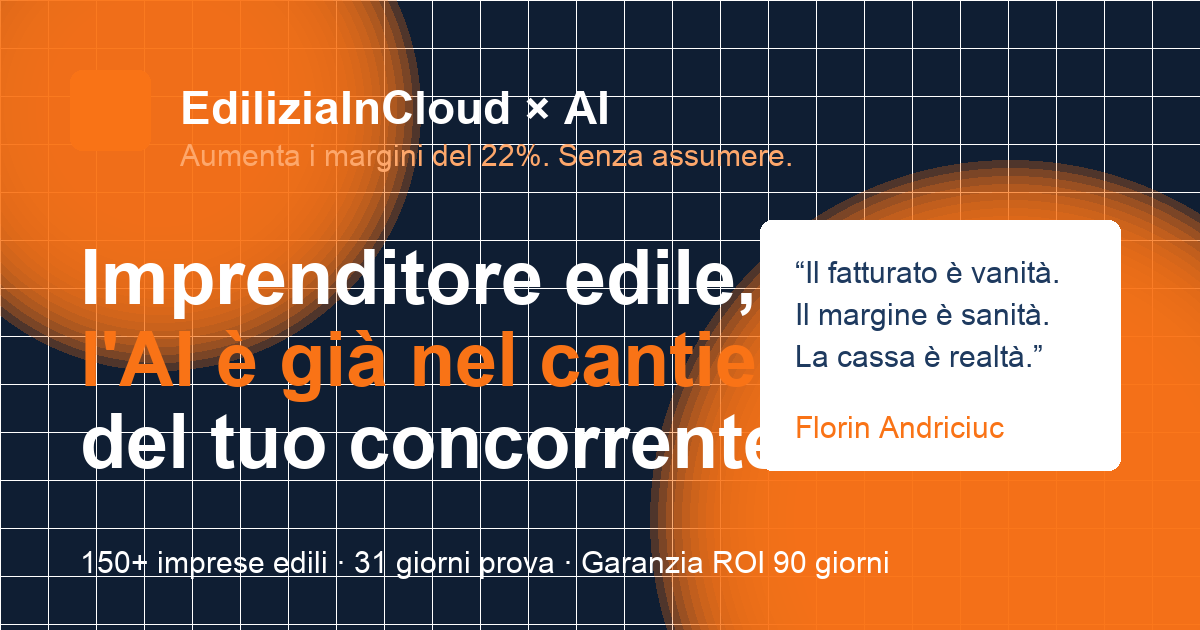
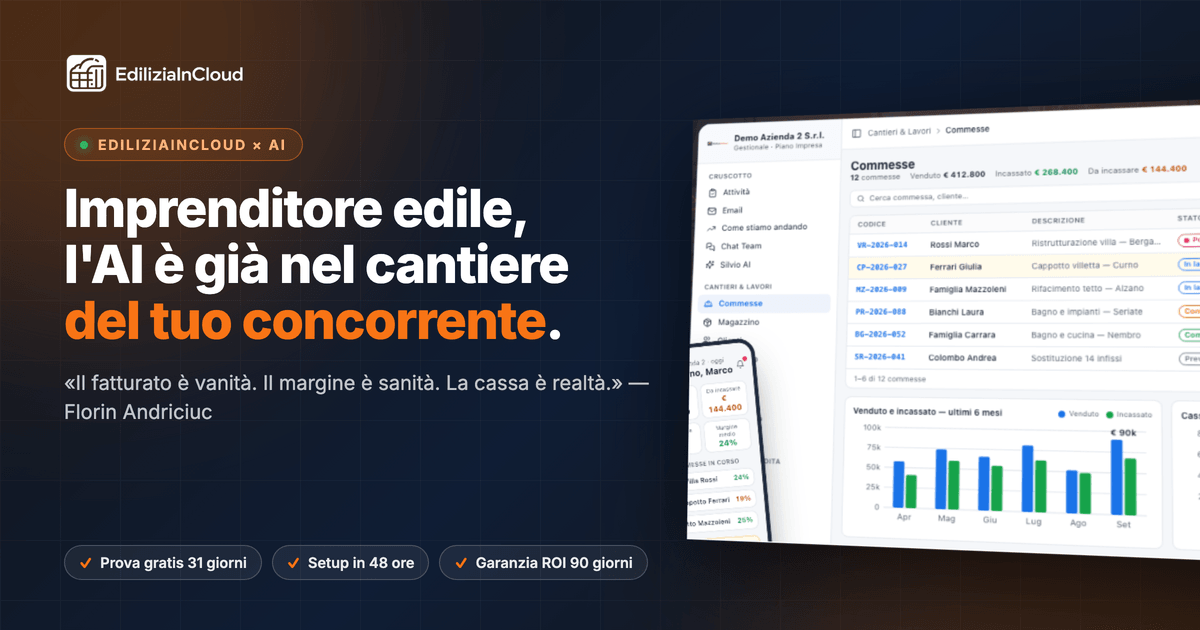
Sito: un'anteprima social per ogni sezione, non l'immagine sbagliata della landing AI
og-default.png era la copia byte per byte dell'anteprima della landing AI: titolo
tagliato dal riquadro della citazione, quadrato arancione al posto del logo, claim
sui margini. Era l'immagine di tutte le pagine tranne i post del blog. Ora
public/og/ ha un'immagine per sezione (default, funzionalità, render, piani, per
chi, confronto, città, blog, demo) generata a 1200×630 con il mockup vero del
hero, e la landing AI ha la sua rifatta con lo stesso impianto.

useSEO sceglie l'immagine dal percorso canonico quando la pagina non ne dichiara
una; il vecchio og-default.png passato a mano da trenta pagine funzionalità vale
come «non dichiarato», così ricevono l'immagine della loro sezione senza
toccarle. Stessa mappa nel middleware per i bot, che ora emette anche
twitter:image e le dimensioni. og-default.png resta, con il disegno nuovo, per i
link già in giro.

diff --git a/functions/_middleware.js b/functions/_middleware.js
@@ -395,7 +395,7 @@ const ROUTES = {
           reviewCount: "127",
           bestRating: "5",
         },
-        screenshot: "https://www.ediliziaincloud.com/og/og-default.png",
+        screenshot: "https://www.ediliziaincloud.com/og/eic-default.png",
       },
       {
         "@context": "https://schema.org",
@@ -2624,7 +2624,38 @@ const BLOG_CATEGORIES = {
 
 // ─── HTML builder ────────────────────────────────────────────────────────────
 
-function buildHtml({ title, description, canonical, h1, intro, links = [], jsonLd = null, extra = "", ogType = "website", ogImage = "https://www.ediliziaincloud.com/og/og-default.png" }) {
+// Anteprime social per sezione (stessa mappa di src/hooks/useSEO.ts, che
+// serve i browser e il prerender; qui servono i bot). File in public/og/.
+const OG_IMAGES = {
+  default: "https://www.ediliziaincloud.com/og/eic-default.png",
+  funzionalita: "https://www.ediliziaincloud.com/og/eic-funzionalita.png",
+  render: "https://www.ediliziaincloud.com/og/eic-render.png",
+  prezzi: "https://www.ediliziaincloud.com/og/eic-prezzi.png",
+  perTipo: "https://www.ediliziaincloud.com/og/eic-per-tipo.png",
+  confronto: "https://www.ediliziaincloud.com/og/eic-confronto.png",
+  citta: "https://www.ediliziaincloud.com/og/eic-citta.png",
+  blog: "https://www.ediliziaincloud.com/og/eic-blog.png",
+  demo: "https://www.ediliziaincloud.com/og/eic-demo.png",
+  ai: "https://www.ediliziaincloud.com/og/landing-ai-imprenditore-edile.png",
+};
+function ogImageFor(pathname) {
+  const p = (pathname || "/").replace(/\/+$/, "") || "/";
+  if (p.startsWith("/funzionalita/render-")) return OG_IMAGES.render;
+  if (p === "/funzionalita" || p.startsWith("/funzionalita/")) return OG_IMAGES.funzionalita;
+  if (p === "/prezzi") return OG_IMAGES.prezzi;
+  if (p.startsWith("/per/")) return OG_IMAGES.perTipo;
+  if (p === "/confronto" || p.startsWith("/confronto/")) return OG_IMAGES.confronto;
+  if (/^\/software-gestionale-edilizia(-[a-z-]+)?$/.test(p)) return OG_IMAGES.citta;
+  if (p === "/blog" || p.startsWith("/blog/")) return OG_IMAGES.blog;
+  if (p === "/demo" || p === "/pianifica-migrazione") return OG_IMAGES.demo;
+  if (p === "/ai-edilizia" || p.startsWith("/landing/ai-")) return OG_IMAGES.ai;
+  return OG_IMAGES.default;
+}
+
+function buildHtml({ title, description, canonical, h1, intro, links = [], jsonLd = null, extra = "", ogType = "website", ogImage = null }) {
+  let ogPath = "/";
+  try { ogPath = new URL(canonical).pathname; } catch { /* canonical sempre assoluto; per sicurezza resta "/" */ }
+  const ogImageUrl = ogImage || ogImageFor(ogPath);
   const jsonLdScript = jsonLd
     ? Array.isArray(jsonLd)
       ? jsonLd.map(j => `<script type="application/ld+json">${JSON.stringify(j)}</script>`).join("\n  ")
@@ -2668,10 +2699,13 @@ function buildHtml({ title, description, canonical, h1, intro, links = [], jsonL
   <meta property="og:url" content="${escAttr(canonical)}"/>
   <meta property="og:type" content="${escAttr(ogType)}"/>
   <meta property="og:site_name" content="Edilizia in Cloud"/>
-  <meta property="og:image" content="${escAttr(ogImage)}"/>
+  <meta property="og:image" content="${escAttr(ogImageUrl)}"/>
+  <meta property="og:image:width" content="1200"/>
+  <meta property="og:image:height" content="630"/>
   <meta name="twitter:card" content="summary_large_image"/>
   <meta name="twitter:title" content="${escAttr(title)}"/>
   <meta name="twitter:description" content="${escAttr(description)}"/>
+  <meta name="twitter:image" content="${escAttr(ogImageUrl)}"/>
   ${jsonLdScript}
   <script type="application/ld+json">{"@context":"https://schema.org","@type":"BreadcrumbList","itemListElement":[{"@type":"ListItem","position":1,"name":"Home","item":"https://www.ediliziaincloud.com/"}${breadcrumb ? `,${ buildBreadcrumbItems(canonical) }` : ""}]}</script>
   <link rel="alternate" type="text/plain" title="LLMs.txt" href="/llms.txt"/>
@@ -2992,7 +3026,7 @@ function resolveRoute(pathname) {
       datePublished: meta.publishedAt || "",
       author: { "@type": "Person", name: "Florin Andriciuc" },
       publisher: { "@type": "Organization", name: "Edilizia in Cloud", url: "https://www.ediliziaincloud.com/" },
-      image: meta.coverImage || "https://www.ediliziaincloud.com/og/og-default.png",
+      image: meta.coverImage || OG_IMAGES.blog,
       keywords: meta.tags ? meta.tags.join(", ") : "",
       inLanguage: "it",
     } : null;
@@ -3019,7 +3053,7 @@ function resolveRoute(pathname) {
       ],
       jsonLd: articleJsonLd,
       ogType: "article",
-      ogImage: meta.coverImage || "https://www.ediliziaincloud.com/og/og-default.png",
+      ogImage: meta.coverImage || OG_IMAGES.blog,
     };
   }
 

diff --git a/src/hooks/useSEO.ts b/src/hooks/useSEO.ts
@@ -16,14 +16,43 @@ export interface SEOOptions {
 
 const DEFAULT_TITLE = "Edilizia in Cloud — Software Gestionale per Imprese Edili";
 const DEFAULT_DESC  = "Il software gestionale n°1 per imprese edili italiane. Gestisci cantieri, margini, HR, marketing e fatturazione in un'unica piattaforma. Prova gratuita 31 giorni.";
-// v8.6.48 — DEFAULT_IMAGE punta a un file locale garantito esistente in
-// public/og/og-default.png. Prima puntava a un URL R2 lovable.app che
-// dipende da un bucket esterno (rischio link rot). Inoltre, le 52 pagine
-// /funzionalita/* dichiarano ogImage specifico (es. /og/calendario-lavori-og.jpg)
-// che NON esiste in public/og/ → 404 di massa su anteprime social.
-// Con questo default, FunzionalitaPageTemplate fa fallback corretto.
-const DEFAULT_IMAGE = "https://www.ediliziaincloud.com/og/og-default.png";
 export const SITE_URL = "https://www.ediliziaincloud.com";
+
+// Immagini di anteprima (og:image) per sezione del sito. Fino al 06/09/2026
+// tutte le pagine tranne i post del blog condividevano og-default.png, che era
+// la copia dell'anteprima della landing AI (titolo tagliato, logo mancante).
+// Ora ogni sezione ha la sua; i file sono generati a 1200×630 e vivono in
+// public/og/. Chi passa `ogImage` esplicito vince; il vecchio og-default.png
+// viene trattato come "non specificato", così le ~30 pagine funzionalità che
+// lo dichiaravano a mano ricevono l'immagine della loro sezione senza toccarle.
+const OG = {
+  default: `${SITE_URL}/og/eic-default.png`,
+  funzionalita: `${SITE_URL}/og/eic-funzionalita.png`,
+  render: `${SITE_URL}/og/eic-render.png`,
+  prezzi: `${SITE_URL}/og/eic-prezzi.png`,
+  perTipo: `${SITE_URL}/og/eic-per-tipo.png`,
+  confronto: `${SITE_URL}/og/eic-confronto.png`,
+  citta: `${SITE_URL}/og/eic-citta.png`,
+  blog: `${SITE_URL}/og/eic-blog.png`,
+  demo: `${SITE_URL}/og/eic-demo.png`,
+  ai: `${SITE_URL}/og/landing-ai-imprenditore-edile.png`,
+} as const;
+const LEGACY_DEFAULT_IMAGE = `${SITE_URL}/og/og-default.png`;
+
+/** L'anteprima social giusta per un percorso del sito (stessa mappa in functions/_middleware.js). */
+export function ogImageForPath(pathname: string): string {
+  const p = pathname.replace(/\/+$/, "") || "/";
+  if (p.startsWith("/funzionalita/render-")) return OG.render;
+  if (p === "/funzionalita" || p.startsWith("/funzionalita/")) return OG.funzionalita;
+  if (p === "/prezzi") return OG.prezzi;
+  if (p.startsWith("/per/")) return OG.perTipo;
+  if (p === "/confronto" || p.startsWith("/confronto/")) return OG.confronto;
+  if (/^\/software-gestionale-edilizia(-[a-z-]+)?$/.test(p)) return OG.citta;
+  if (p === "/blog" || p.startsWith("/blog/")) return OG.blog;
+  if (p === "/demo" || p === "/pianifica-migrazione") return OG.demo;
+  if (p === "/ai-edilizia" || p.startsWith("/landing/ai-")) return OG.ai;
+  return OG.default;
+}
 
 // Elemento Wikidata del prodotto "Edilizia in Cloud" (Q140698655).
 // Va dichiarato come sameAs sui nodi SoftwareApplication/Product/Brand — NON
@@ -96,7 +125,7 @@ export function useSEO(options: SEOOptions) {
   const entriesRef = useRef<MetaEntry[]>([]);
 
   const {
-    title, description, canonical, ogImage = DEFAULT_IMAGE,
+    title, description, canonical, ogImage,
     noindex = false, type = "website", publishedTime, modifiedTime,
     keywords, section, tags,
   } = options;
@@ -114,6 +143,10 @@ export function useSEO(options: SEOOptions) {
     document.title = fullTitle;
 
     const canonicalUrl = normalizeCanonicalUrl(canonical);
+    const resolvedOgImage =
+      ogImage && ogImage !== LEGACY_DEFAULT_IMAGE
+        ? ogImage
+        : ogImageForPath(new URL(canonicalUrl).pathname);
 
     const set = (attr: "name" | "property", key: string, value: string) => {
       entriesRef.current.push(upsertMeta(attr, key, value));
@@ -139,7 +172,7 @@ export function useSEO(options: SEOOptions) {
     set("property", "og:title",       fullTitle);
     set("property", "og:description", description);
     set("property", "og:url",         canonicalUrl);
-    set("property", "og:image",       ogImage);
+    set("property", "og:image",       resolvedOgImage);
     set("property", "og:image:width",  "1200");
     set("property", "og:image:height", "630");
     set("property", "og:image:alt",    fullTitle);
@@ -161,7 +194,7 @@ export function useSEO(options: SEOOptions) {
     set("name", "twitter:creator",     "@EdiliziaInCloud");
     set("name", "twitter:title",       fullTitle);
     set("name", "twitter:description", description);
-    set("name", "twitter:image",       ogImage);
+    set("name", "twitter:image",       resolvedOgImage);
     set("name", "twitter:image:alt",   fullTitle);
 
     // Canonical link

diff --git a/index.html b/index.html
@@ -263,7 +263,7 @@
     <meta property="og:type" content="website" />
     <meta property="og:title" content="Gestionale Edilizia Cloud | Software per Imprese Edili">
     <meta property="og:description" content="Il software cloud per imprese edili italiane. Gestisci cantieri, preventivi, fatturazione e squadre in un'unica piattaforma AI. Prova gratis.">
-    <meta property="og:image" content="https://www.ediliziaincloud.com/og/og-default.png">
+    <meta property="og:image" content="https://www.ediliziaincloud.com/og/eic-default.png">
     <meta property="og:image:width" content="1200">
     <meta property="og:image:height" content="630">
     <meta property="og:site_name" content="Edilizia in Cloud">
@@ -273,7 +273,7 @@
     <meta name="twitter:site" content="@EdiliziaInCloud" />
     <meta name="twitter:title" content="Gestionale Edilizia Cloud | Software per Imprese Edili">
     <meta name="twitter:description" content="Il software cloud per imprese edili italiane. Gestisci cantieri, preventivi, fatturazione e squadre in un'unica piattaforma AI. Prova gratis.">
-    <meta name="twitter:image" content="https://www.ediliziaincloud.com/og/og-default.png">
+    <meta name="twitter:image" content="https://www.ediliziaincloud.com/og/eic-default.png">
 
     <!-- PWA -->
     <link rel="manifest" href="/manifest.json">
